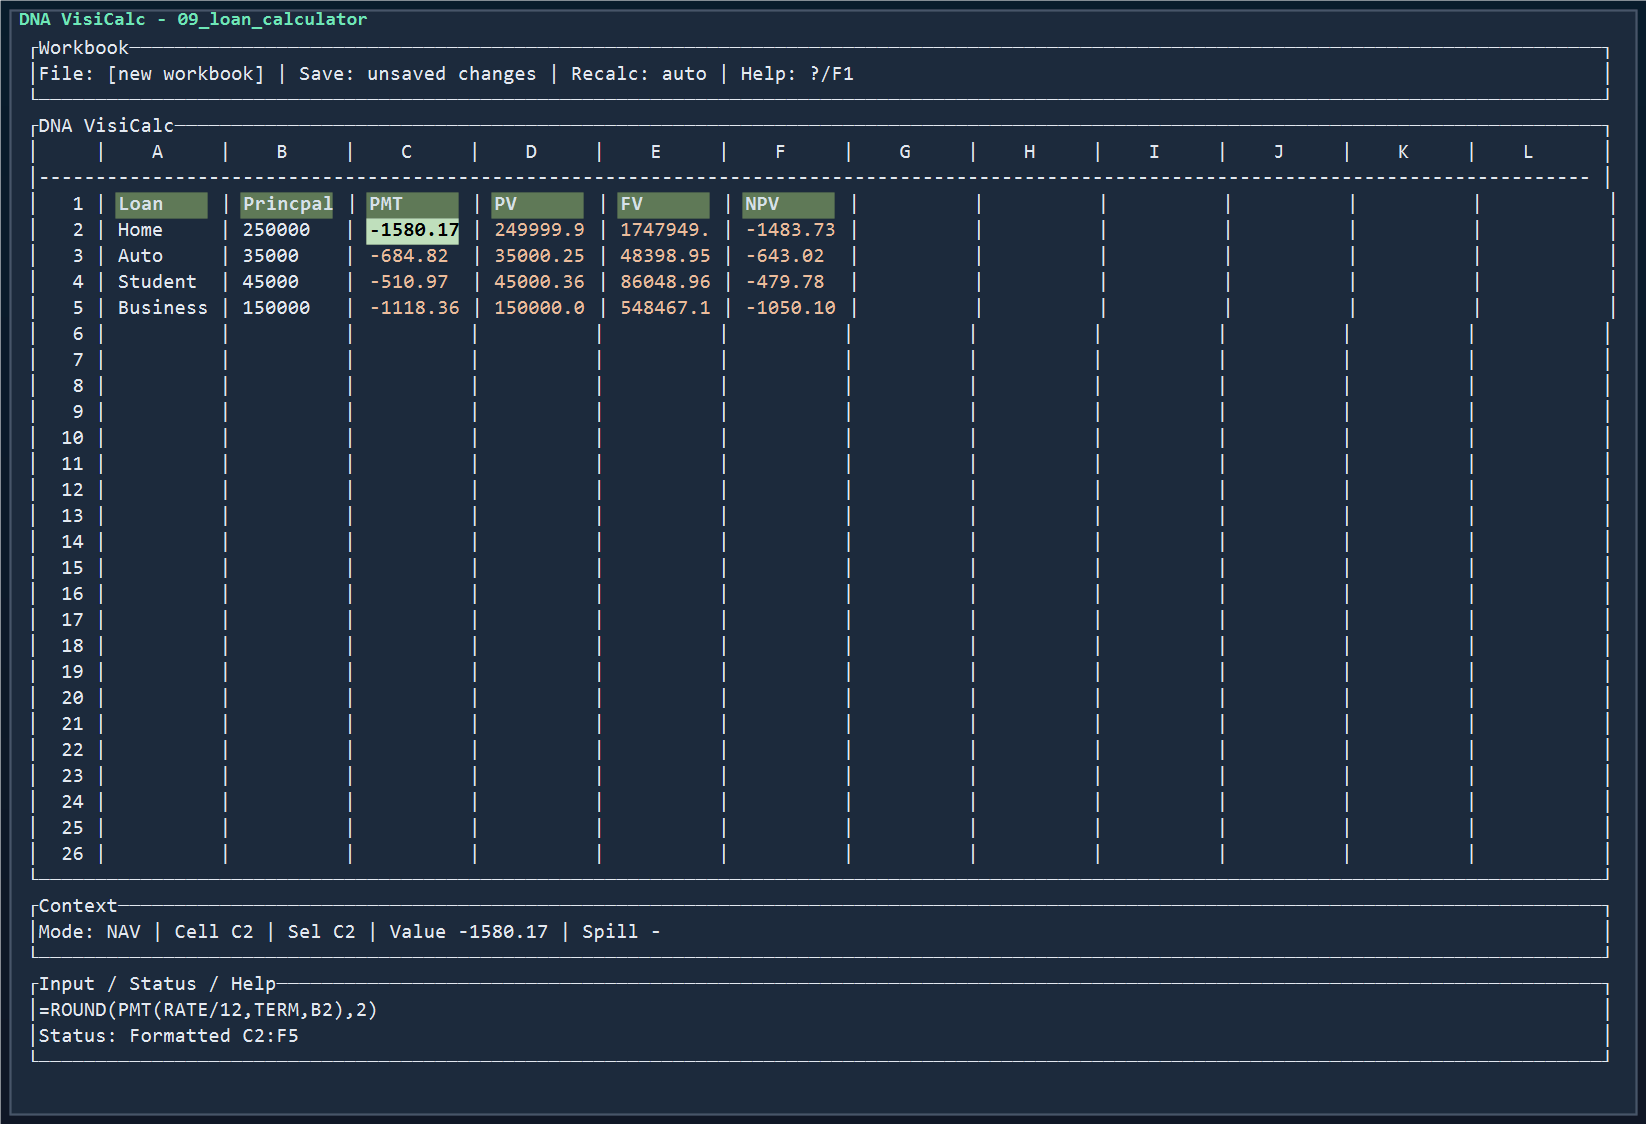
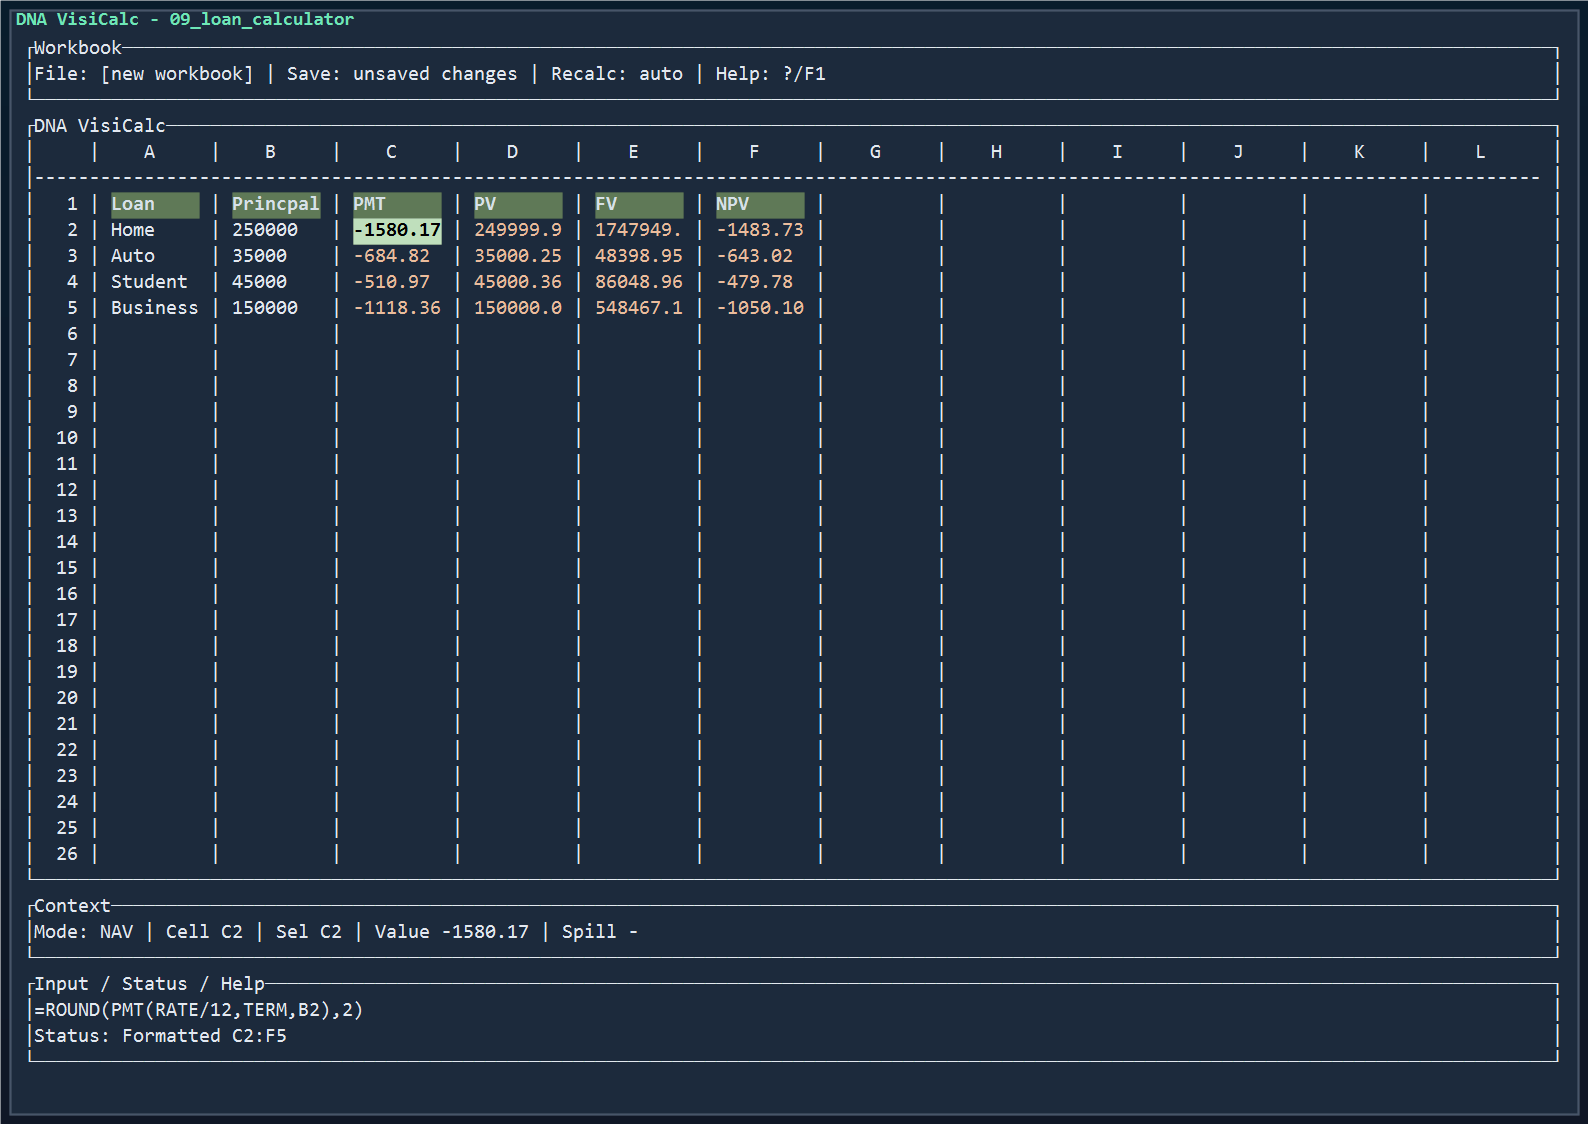
Fix multi-cell paste on Windows, add Esc to dismiss help popup
Multi-cell paste failed to match the internal copy buffer because
Windows clipboard returns \r\n but the buffer stores \n. Normalize
line endings before comparison so formulas and formatting are preserved.

Esc now dismisses the help popup in navigate mode. Updated help text
and status messages to mention Esc. Regenerated all 20 screenshot PNGs
with improved char-by-char renderer and contrast heuristic.

diff --git a/crates/dnavisicalc-tui/src/app.rs b/crates/dnavisicalc-tui/src/app.rs
@@ -348,7 +348,7 @@ impl App {
             Action::ToggleHelp => {
                 self.help_visible = !self.help_visible;
                 self.status = if self.help_visible {
-                    "Help shown (press ? to close)".to_string()
+                    "Help shown (press ?/Esc to close)".to_string()
                 } else {
                     "Help hidden".to_string()
                 };
@@ -390,12 +390,17 @@ impl App {
                 Err(err) => self.status = format!("Recalc error: {err}"),
             },
             Action::Quit => return CommandOutcome::Quit,
+            Action::Cancel => {
+                if self.help_visible {
+                    self.help_visible = false;
+                    self.status = "Help hidden".to_string();
+                }
+            }
             Action::PasteModeNext
             | Action::PasteModePrev
             | Action::InputChar(_)
             | Action::Backspace
-            | Action::Submit
-            | Action::Cancel => {}
+            | Action::Submit => {}
         }
 
         self.ensure_visible();
@@ -744,7 +749,7 @@ impl App {
             }
             "help" | "?" => {
                 self.help_visible = true;
-                self.status = "Help shown (press ? to close)".to_string();
+                self.status = "Help shown (press ?/Esc to close)".to_string();
             }
             _ => {
                 self.status = format!("Unknown command: {name}");
@@ -932,10 +937,13 @@ impl App {
             return Err("paste target exceeds sheet bounds".to_string());
         }
 
+        // Normalize line endings for comparison: the system clipboard on Windows
+        // may return \r\n even though our copy buffer uses \n.
+        let normalized_text = text.replace("\r\n", "\n").replace('\r', "\n");
         let source_buffer = self
             .copy_buffer
             .as_ref()
-            .filter(|buffer| buffer.text == text)
+            .filter(|buffer| buffer.text == normalized_text)
             .cloned();
         for row_off in 0..height {
             for col_off in 0..width {
@@ -1551,5 +1559,160 @@ mod tests {
             app.engine().cell_state_a1("A1").expect("A1 value").value,
             Value::Number(3.0)
         );
+    }
+
+    #[test]
+    fn paste_2x2_external_grid() {
+        let mut app = App::new();
+        let mut io = crate::io::MemoryWorkbookIo::new();
+
+        app.apply(
+            Action::BeginPasteFromClipboard("1\t2\n3\t4".to_string()),
+            &mut io,
+        );
+        app.apply(Action::Submit, &mut io);
+
+        assert_eq!(
+            app.engine().cell_state_a1("A1").expect("A1").value,
+            Value::Number(1.0)
+        );
+        assert_eq!(
+            app.engine().cell_state_a1("B1").expect("B1").value,
+            Value::Number(2.0)
+        );
+        assert_eq!(
+            app.engine().cell_state_a1("A2").expect("A2").value,
+            Value::Number(3.0)
+        );
+        assert_eq!(
+            app.engine().cell_state_a1("B2").expect("B2").value,
+            Value::Number(4.0)
+        );
+    }
+
+    #[test]
+    fn paste_internal_2x2_copy_buffer() {
+        let mut app = App::new();
+        let mut io = crate::io::MemoryWorkbookIo::new();
+
+        // Set up a 2x2 range
+        run_command(&mut app, &mut io, "set A1 10");
+        run_command(&mut app, &mut io, "set B1 20");
+        run_command(&mut app, &mut io, "set A2 30");
+        run_command(&mut app, &mut io, "set B2 40");
+
+        // Select A1:B2
+        app.apply(Action::ExtendRight, &mut io);
+        app.apply(Action::ExtendDown, &mut io);
+
+        // Copy
+        app.apply(Action::CopySelection, &mut io);
+        let clipboard_text = app
+            .last_copy_text()
+            .map(ToString::to_string)
+            .expect("clipboard text");
+
+        // Navigate to C1 (selected is at B2 after ExtendDown, MoveRight clears anchor)
+        app.apply(Action::MoveUp, &mut io);    // B1 (deselects anchor)
+        app.apply(Action::MoveRight, &mut io); // C1
+
+        // Paste
+        app.apply(Action::BeginPasteFromClipboard(clipboard_text), &mut io);
+        app.apply(Action::Submit, &mut io);
+
+        assert_eq!(
+            app.engine().cell_state_a1("C1").expect("C1").value,
+            Value::Number(10.0)
+        );
+        assert_eq!(
+            app.engine().cell_state_a1("D1").expect("D1").value,
+            Value::Number(20.0)
+        );
+        assert_eq!(
+            app.engine().cell_state_a1("C2").expect("C2").value,
+            Value::Number(30.0)
+        );
+        assert_eq!(
+            app.engine().cell_state_a1("D2").expect("D2").value,
+            Value::Number(40.0)
+        );
+    }
+
+    #[test]
+    fn paste_internal_2x2_with_crlf_clipboard() {
+        // Windows clipboard returns \r\n but our copy buffer stores \n.
+        // The paste logic should still match the internal buffer.
+        let mut app = App::new();
+        let mut io = crate::io::MemoryWorkbookIo::new();
+
+        run_command(&mut app, &mut io, "set A1 =1+1");
+        run_command(&mut app, &mut io, "set B1 =2+2");
+        run_command(&mut app, &mut io, "set A2 =3+3");
+        run_command(&mut app, &mut io, "set B2 =4+4");
+
+        // Select A1:B2 and copy
+        app.apply(Action::ExtendRight, &mut io);
+        app.apply(Action::ExtendDown, &mut io);
+        app.apply(Action::CopySelection, &mut io);
+
+        let original_text = app
+            .last_copy_text()
+            .map(ToString::to_string)
+            .expect("clipboard text");
+        assert!(original_text.contains('\n'));
+        assert!(!original_text.contains('\r'));
+
+        // Simulate Windows clipboard returning \r\n
+        let crlf_text = original_text.replace('\n', "\r\n");
+
+        // Navigate to C1
+        app.apply(Action::MoveUp, &mut io);
+        app.apply(Action::MoveRight, &mut io);
+
+        // Paste with CRLF text
+        app.apply(Action::BeginPasteFromClipboard(crlf_text), &mut io);
+        app.apply(Action::Submit, &mut io);
+
+        // Should have formulas, not just values
+        assert_eq!(
+            app.engine().cell_input_a1("C1").expect("C1"),
+            Some(CellInput::Formula("=1+1".to_string()))
+        );
+        assert_eq!(
+            app.engine().cell_input_a1("D1").expect("D1"),
+            Some(CellInput::Formula("=2+2".to_string()))
+        );
+        assert_eq!(
+            app.engine().cell_input_a1("C2").expect("C2"),
+            Some(CellInput::Formula("=3+3".to_string()))
+        );
+        assert_eq!(
+            app.engine().cell_input_a1("D2").expect("D2"),
+            Some(CellInput::Formula("=4+4".to_string()))
+        );
+    }
+
+    #[test]
+    fn esc_dismisses_help_popup() {
+        let mut app = App::new();
+        let mut io = crate::io::MemoryWorkbookIo::new();
+        assert!(!app.help_visible());
+
+        app.apply(Action::ToggleHelp, &mut io);
+        assert!(app.help_visible());
+
+        app.apply(Action::Cancel, &mut io);
+        assert!(!app.help_visible());
+    }
+
+    #[test]
+    fn esc_is_noop_when_help_not_visible() {
+        let mut app = App::new();
+        let mut io = crate::io::MemoryWorkbookIo::new();
+        assert!(!app.help_visible());
+
+        app.apply(Action::Cancel, &mut io);
+        assert!(!app.help_visible());
+        assert_eq!(app.mode(), AppMode::Navigate);
     }
 }

diff --git a/crates/dnavisicalc-tui/src/keymap.rs b/crates/dnavisicalc-tui/src/keymap.rs
@@ -59,6 +59,7 @@ fn map_navigate_key(key: KeyEvent) -> Option<Action> {
         KeyCode::Char('r') => Some(Action::Recalculate),
         KeyCode::Char('q') => Some(Action::Quit),
         KeyCode::Delete | KeyCode::Backspace => Some(Action::ClearSelection),
+        KeyCode::Esc => Some(Action::Cancel),
         _ => None,
     }
 }

diff --git a/crates/dnavisicalc-tui/src/render.rs b/crates/dnavisicalc-tui/src/render.rs
@@ -250,7 +250,7 @@ Notes\n\
 - Palette: MIST, SAGE, FERN, MOSS, OLIVE, SEAFOAM, LAGOON, TEAL,\n\
   SKY, CLOUD, SAND, CLAY, PEACH, ROSE, LAVENDER, SLATE.\n\
 \n\
-Press ? or F1 to close help."
+Press ? or F1 or Esc to close help."
     )
 }
 
